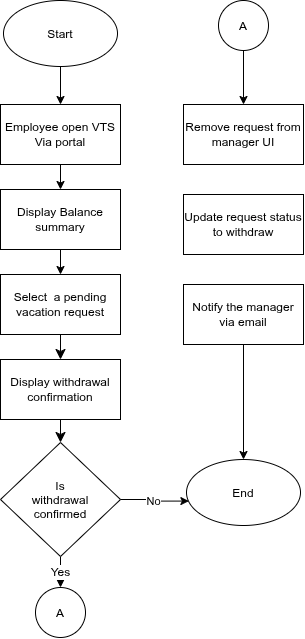
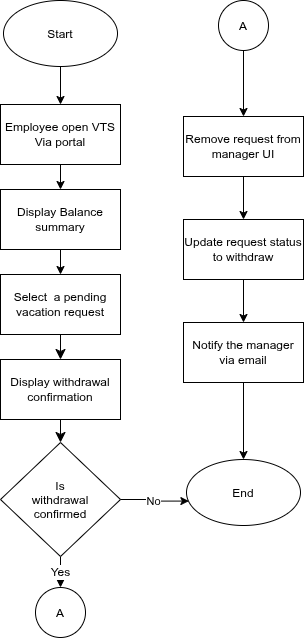
upload edit/withdraw request flow chart

Changed region(s): [[0.5902, 0.1487, 1.0, 0.5947]]

diff --git a/Uses Cases/Manage Time/Alternative Flows/Edit Pending Request/edit_request_flow_chart.html b/Uses Cases/Manage Time/Alternative Flows/Edit Pending Request/edit_request_flow_chart.html
@@ -1,0 +1,12 @@
+<!--[if IE]><meta http-equiv="X-UA-Compatible" content="IE=5,IE=9" ><![endif]-->
+<!DOCTYPE html>
+<html>
+<head>
+<title>edit_request_flow_chart.html</title>
+<meta charset="utf-8"/>
+</head>
+<body>
+<div class="mxgraph" style="max-width:100%;border:1px solid transparent;" data-mxgraph="{&quot;highlight&quot;:&quot;#0000ff&quot;,&quot;nav&quot;:true,&quot;resize&quot;:true,&quot;xml&quot;:&quot;&lt;mxfile host=\&quot;app.diagrams.net\&quot;&gt;&lt;diagram name=\&quot;Page-1\&quot; id=\&quot;mRw7mLXGyJ4UxDQgsZDA\&quot;&gt;&lt;mxGraphModel dx=\&quot;39\&quot; dy=\&quot;505\&quot; grid=\&quot;0\&quot; gridSize=\&quot;10\&quot; guides=\&quot;1\&quot; tooltips=\&quot;1\&quot; connect=\&quot;1\&quot; arrows=\&quot;1\&quot; fold=\&quot;1\&quot; page=\&quot;0\&quot; pageScale=\&quot;1\&quot; pageWidth=\&quot;850\&quot; pageHeight=\&quot;1100\&quot; math=\&quot;0\&quot; shadow=\&quot;0\&quot;&gt;&lt;root&gt;&lt;mxCell id=\&quot;0\&quot;/&gt;&lt;mxCell id=\&quot;1\&quot; parent=\&quot;0\&quot;/&gt;&lt;mxCell id=\&quot;2GZm9S1xcefErr54nvYl-62\&quot; edge=\&quot;1\&quot; parent=\&quot;1\&quot; source=\&quot;2GZm9S1xcefErr54nvYl-63\&quot; style=\&quot;edgeStyle=orthogonalEdgeStyle;rounded=0;orthogonalLoop=1;jettySize=auto;html=1;entryX=0.5;entryY=0;entryDx=0;entryDy=0;\&quot; target=\&quot;2GZm9S1xcefErr54nvYl-65\&quot;&gt;&lt;mxGeometry relative=\&quot;1\&quot; as=\&quot;geometry\&quot;/&gt;&lt;/mxCell&gt;&lt;mxCell id=\&quot;2GZm9S1xcefErr54nvYl-63\&quot; parent=\&quot;1\&quot; style=\&quot;rounded=0;whiteSpace=wrap;html=1;\&quot; value=\&quot;Employee open VTS Via portal\&quot; vertex=\&quot;1\&quot;&gt;&lt;mxGeometry height=\&quot;60\&quot; width=\&quot;120\&quot; x=\&quot;915\&quot; y=\&quot;245\&quot; as=\&quot;geometry\&quot;/&gt;&lt;/mxCell&gt;&lt;mxCell id=\&quot;2GZm9S1xcefErr54nvYl-64\&quot; edge=\&quot;1\&quot; parent=\&quot;1\&quot; source=\&quot;2GZm9S1xcefErr54nvYl-65\&quot; style=\&quot;edgeStyle=orthogonalEdgeStyle;rounded=0;orthogonalLoop=1;jettySize=auto;html=1;entryX=0.5;entryY=0;entryDx=0;entryDy=0;\&quot; target=\&quot;2GZm9S1xcefErr54nvYl-66\&quot;&gt;&lt;mxGeometry relative=\&quot;1\&quot; as=\&quot;geometry\&quot;/&gt;&lt;/mxCell&gt;&lt;mxCell id=\&quot;2GZm9S1xcefErr54nvYl-65\&quot; parent=\&quot;1\&quot; style=\&quot;rounded=0;whiteSpace=wrap;html=1;\&quot; value=\&quot;Display Balance summary\&quot; vertex=\&quot;1\&quot;&gt;&lt;mxGeometry height=\&quot;60\&quot; width=\&quot;120\&quot; x=\&quot;915\&quot; y=\&quot;330\&quot; as=\&quot;geometry\&quot;/&gt;&lt;/mxCell&gt;&lt;mxCell id=\&quot;2GZm9S1xcefErr54nvYl-66\&quot; parent=\&quot;1\&quot; style=\&quot;rounded=0;whiteSpace=wrap;html=1;\&quot; value=\&quot;Select pending request to edit\&quot; vertex=\&quot;1\&quot;&gt;&lt;mxGeometry height=\&quot;60\&quot; width=\&quot;120\&quot; x=\&quot;915\&quot; y=\&quot;415\&quot; as=\&quot;geometry\&quot;/&gt;&lt;/mxCell&gt;&lt;mxCell id=\&quot;2GZm9S1xcefErr54nvYl-67\&quot; edge=\&quot;1\&quot; parent=\&quot;1\&quot; source=\&quot;2GZm9S1xcefErr54nvYl-68\&quot; style=\&quot;edgeStyle=orthogonalEdgeStyle;rounded=0;orthogonalLoop=1;jettySize=auto;html=1;entryX=0.5;entryY=0;entryDx=0;entryDy=0;\&quot; target=\&quot;2GZm9S1xcefErr54nvYl-63\&quot;&gt;&lt;mxGeometry relative=\&quot;1\&quot; as=\&quot;geometry\&quot;/&gt;&lt;/mxCell&gt;&lt;mxCell id=\&quot;2GZm9S1xcefErr54nvYl-68\&quot; parent=\&quot;1\&quot; style=\&quot;ellipse;whiteSpace=wrap;html=1;shapeInside=1;\&quot; value=\&quot;Start\&quot; vertex=\&quot;1\&quot;&gt;&lt;mxGeometry height=\&quot;66\&quot; width=\&quot;114\&quot; x=\&quot;918\&quot; y=\&quot;141\&quot; as=\&quot;geometry\&quot;/&gt;&lt;/mxCell&gt;&lt;mxCell id=\&quot;2GZm9S1xcefErr54nvYl-74\&quot; edge=\&quot;1\&quot; parent=\&quot;1\&quot; source=\&quot;2GZm9S1xcefErr54nvYl-69\&quot; style=\&quot;edgeStyle=orthogonalEdgeStyle;rounded=0;orthogonalLoop=1;jettySize=auto;html=1;exitX=1;exitY=0.5;exitDx=0;exitDy=0;entryX=0.5;entryY=0;entryDx=0;entryDy=0;defaultLabelBackgroundColor=page;\&quot; target=\&quot;2GZm9S1xcefErr54nvYl-72\&quot; value=\&quot;Withdraw\&quot;&gt;&lt;mxGeometry relative=\&quot;1\&quot; x=\&quot;0.2308\&quot; as=\&quot;geometry\&quot;&gt;&lt;mxPoint as=\&quot;offset\&quot;/&gt;&lt;/mxGeometry&gt;&lt;/mxCell&gt;&lt;mxCell id=\&quot;2GZm9S1xcefErr54nvYl-69\&quot; parent=\&quot;1\&quot; style=\&quot;rhombus;whiteSpace=wrap;html=1;shapeInside=1;\&quot; value=\&quot;&amp;amp;nbsp;Action (edit or withdraw)?\&quot; vertex=\&quot;1\&quot;&gt;&lt;mxGeometry height=\&quot;86\&quot; width=\&quot;102\&quot; x=\&quot;924\&quot; y=\&quot;504\&quot; as=\&quot;geometry\&quot;/&gt;&lt;/mxCell&gt;&lt;mxCell id=\&quot;2GZm9S1xcefErr54nvYl-70\&quot; edge=\&quot;1\&quot; parent=\&quot;1\&quot; source=\&quot;2GZm9S1xcefErr54nvYl-66\&quot; style=\&quot;edgeStyle=orthogonalEdgeStyle;rounded=0;orthogonalLoop=1;jettySize=auto;html=1;entryX=0.5;entryY=0;entryDx=0;entryDy=0;defaultLabelBackgroundColor=page;\&quot; target=\&quot;2GZm9S1xcefErr54nvYl-69\&quot;&gt;&lt;mxGeometry relative=\&quot;1\&quot; x=\&quot;0.6078\&quot; as=\&quot;geometry\&quot;/&gt;&lt;/mxCell&gt;&lt;mxCell id=\&quot;2GZm9S1xcefErr54nvYl-71\&quot; parent=\&quot;1\&quot; style=\&quot;ellipse;whiteSpace=wrap;html=1;shapeInside=1;aspect=fixed;\&quot; value=\&quot;A\&quot; vertex=\&quot;1\&quot;&gt;&lt;mxGeometry height=\&quot;50\&quot; width=\&quot;50\&quot; x=\&quot;870\&quot; y=\&quot;620\&quot; as=\&quot;geometry\&quot;/&gt;&lt;/mxCell&gt;&lt;mxCell id=\&quot;2GZm9S1xcefErr54nvYl-72\&quot; parent=\&quot;1\&quot; style=\&quot;ellipse;whiteSpace=wrap;html=1;shapeInside=1;aspect=fixed;\&quot; value=\&quot;B\&quot; vertex=\&quot;1\&quot;&gt;&lt;mxGeometry height=\&quot;50\&quot; width=\&quot;50\&quot; x=\&quot;1032\&quot; y=\&quot;620\&quot; as=\&quot;geometry\&quot;/&gt;&lt;/mxCell&gt;&lt;mxCell id=\&quot;2GZm9S1xcefErr54nvYl-73\&quot; edge=\&quot;1\&quot; parent=\&quot;1\&quot; source=\&quot;2GZm9S1xcefErr54nvYl-69\&quot; style=\&quot;edgeStyle=orthogonalEdgeStyle;rounded=0;orthogonalLoop=1;jettySize=auto;html=1;exitX=0;exitY=0.5;exitDx=0;exitDy=0;entryX=0.422;entryY=-0.13;entryDx=0;entryDy=0;entryPerimeter=0;defaultLabelBackgroundColor=page;\&quot; target=\&quot;2GZm9S1xcefErr54nvYl-71\&quot; value=\&quot;Edit\&quot;&gt;&lt;mxGeometry relative=\&quot;1\&quot; x=\&quot;0.1247\&quot; as=\&quot;geometry\&quot;&gt;&lt;mxPoint as=\&quot;offset\&quot;/&gt;&lt;/mxGeometry&gt;&lt;/mxCell&gt;&lt;mxCell id=\&quot;2GZm9S1xcefErr54nvYl-91\&quot; edge=\&quot;1\&quot; parent=\&quot;1\&quot; source=\&quot;2GZm9S1xcefErr54nvYl-75\&quot; style=\&quot;edgeStyle=orthogonalEdgeStyle;rounded=0;orthogonalLoop=1;jettySize=auto;html=1;entryX=0.5;entryY=0;entryDx=0;entryDy=0;defaultLabelBackgroundColor=page;\&quot; target=\&quot;2GZm9S1xcefErr54nvYl-77\&quot;&gt;&lt;mxGeometry relative=\&quot;1\&quot; as=\&quot;geometry\&quot;/&gt;&lt;/mxCell&gt;&lt;mxCell id=\&quot;2GZm9S1xcefErr54nvYl-75\&quot; parent=\&quot;1\&quot; style=\&quot;ellipse;whiteSpace=wrap;html=1;shapeInside=1;aspect=fixed;\&quot; value=\&quot;A\&quot; vertex=\&quot;1\&quot;&gt;&lt;mxGeometry height=\&quot;50\&quot; width=\&quot;50\&quot; x=\&quot;1195\&quot; y=\&quot;149\&quot; as=\&quot;geometry\&quot;/&gt;&lt;/mxCell&gt;&lt;mxCell id=\&quot;2GZm9S1xcefErr54nvYl-76\&quot; edge=\&quot;1\&quot; parent=\&quot;1\&quot; source=\&quot;2GZm9S1xcefErr54nvYl-77\&quot; style=\&quot;edgeStyle=orthogonalEdgeStyle;rounded=0;orthogonalLoop=1;jettySize=auto;html=1;entryX=0.5;entryY=0;entryDx=0;entryDy=0;\&quot; target=\&quot;2GZm9S1xcefErr54nvYl-79\&quot;&gt;&lt;mxGeometry relative=\&quot;1\&quot; as=\&quot;geometry\&quot;/&gt;&lt;/mxCell&gt;&lt;mxCell id=\&quot;2GZm9S1xcefErr54nvYl-77\&quot; parent=\&quot;1\&quot; style=\&quot;rounded=0;whiteSpace=wrap;html=1;\&quot; value=\&quot;Display request info.\&quot; vertex=\&quot;1\&quot;&gt;&lt;mxGeometry height=\&quot;60\&quot; width=\&quot;120\&quot; x=\&quot;1160\&quot; y=\&quot;240\&quot; as=\&quot;geometry\&quot;/&gt;&lt;/mxCell&gt;&lt;mxCell id=\&quot;2GZm9S1xcefErr54nvYl-78\&quot; edge=\&quot;1\&quot; parent=\&quot;1\&quot; source=\&quot;2GZm9S1xcefErr54nvYl-79\&quot; style=\&quot;edgeStyle=orthogonalEdgeStyle;rounded=0;orthogonalLoop=1;jettySize=auto;html=1;entryX=0.5;entryY=0;entryDx=0;entryDy=0;\&quot; target=\&quot;2GZm9S1xcefErr54nvYl-83\&quot;&gt;&lt;mxGeometry relative=\&quot;1\&quot; as=\&quot;geometry\&quot;/&gt;&lt;/mxCell&gt;&lt;mxCell id=\&quot;2GZm9S1xcefErr54nvYl-79\&quot; parent=\&quot;1\&quot; style=\&quot;rounded=0;whiteSpace=wrap;html=1;\&quot; value=\&quot;change title,comments or dates\&quot; vertex=\&quot;1\&quot;&gt;&lt;mxGeometry height=\&quot;60\&quot; width=\&quot;120\&quot; x=\&quot;1160\&quot; y=\&quot;320\&quot; as=\&quot;geometry\&quot;/&gt;&lt;/mxCell&gt;&lt;mxCell id=\&quot;2GZm9S1xcefErr54nvYl-93\&quot; edge=\&quot;1\&quot; parent=\&quot;1\&quot; source=\&quot;2GZm9S1xcefErr54nvYl-83\&quot; style=\&quot;edgeStyle=orthogonalEdgeStyle;rounded=0;orthogonalLoop=1;jettySize=auto;html=1;exitX=1;exitY=0.5;exitDx=0;exitDy=0;entryX=0;entryY=0.5;entryDx=0;entryDy=0;defaultLabelBackgroundColor=page;\&quot; target=\&quot;2GZm9S1xcefErr54nvYl-85\&quot; value=\&quot;No\&quot;&gt;&lt;mxGeometry relative=\&quot;1\&quot; as=\&quot;geometry\&quot;/&gt;&lt;/mxCell&gt;&lt;mxCell id=\&quot;2GZm9S1xcefErr54nvYl-83\&quot; parent=\&quot;1\&quot; style=\&quot;rhombus;whiteSpace=wrap;html=1;shapeInside=1;\&quot; value=\&quot;Is changes accepted?\&quot; vertex=\&quot;1\&quot;&gt;&lt;mxGeometry height=\&quot;86\&quot; width=\&quot;90\&quot; x=\&quot;1175\&quot; y=\&quot;414\&quot; as=\&quot;geometry\&quot;/&gt;&lt;/mxCell&gt;&lt;mxCell id=\&quot;2GZm9S1xcefErr54nvYl-84\&quot; edge=\&quot;1\&quot; parent=\&quot;1\&quot; source=\&quot;2GZm9S1xcefErr54nvYl-85\&quot; style=\&quot;edgeStyle=orthogonalEdgeStyle;rounded=0;orthogonalLoop=1;jettySize=auto;html=1;entryX=1;entryY=0.5;entryDx=0;entryDy=0;defaultLabelBackgroundColor=page;exitX=0.5;exitY=0;exitDx=0;exitDy=0;\&quot; target=\&quot;2GZm9S1xcefErr54nvYl-77\&quot;&gt;&lt;mxGeometry relative=\&quot;1\&quot; x=\&quot;0.6653\&quot; as=\&quot;geometry\&quot;&gt;&lt;mxPoint x=\&quot;1070\&quot; y=\&quot;427\&quot; as=\&quot;sourcePoint\&quot;/&gt;&lt;/mxGeometry&gt;&lt;/mxCell&gt;&lt;mxCell id=\&quot;2GZm9S1xcefErr54nvYl-85\&quot; parent=\&quot;1\&quot; style=\&quot;rounded=0;whiteSpace=wrap;html=1;\&quot; value=\&quot;Display validation errors\&quot; vertex=\&quot;1\&quot;&gt;&lt;mxGeometry height=\&quot;60\&quot; width=\&quot;114\&quot; x=\&quot;1300\&quot; y=\&quot;427\&quot; as=\&quot;geometry\&quot;/&gt;&lt;/mxCell&gt;&lt;mxCell id=\&quot;2GZm9S1xcefErr54nvYl-86\&quot; edge=\&quot;1\&quot; parent=\&quot;1\&quot; source=\&quot;2GZm9S1xcefErr54nvYl-87\&quot; style=\&quot;edgeStyle=orthogonalEdgeStyle;rounded=0;orthogonalLoop=1;jettySize=auto;html=1;exitX=0.5;exitY=1;exitDx=0;exitDy=0;entryX=0.5;entryY=0;entryDx=0;entryDy=0;\&quot; target=\&quot;2GZm9S1xcefErr54nvYl-90\&quot;&gt;&lt;mxGeometry relative=\&quot;1\&quot; as=\&quot;geometry\&quot;/&gt;&lt;/mxCell&gt;&lt;mxCell id=\&quot;2GZm9S1xcefErr54nvYl-87\&quot; parent=\&quot;1\&quot; style=\&quot;rounded=0;whiteSpace=wrap;html=1;\&quot; value=\&quot;Return to VTS home&amp;amp;nbsp; page\&quot; vertex=\&quot;1\&quot;&gt;&lt;mxGeometry height=\&quot;50\&quot; width=\&quot;120\&quot; x=\&quot;1157\&quot; y=\&quot;604\&quot; as=\&quot;geometry\&quot;/&gt;&lt;/mxCell&gt;&lt;mxCell id=\&quot;2GZm9S1xcefErr54nvYl-88\&quot; edge=\&quot;1\&quot; parent=\&quot;1\&quot; source=\&quot;2GZm9S1xcefErr54nvYl-89\&quot; style=\&quot;edgeStyle=orthogonalEdgeStyle;rounded=0;orthogonalLoop=1;jettySize=auto;html=1;exitX=0.5;exitY=1;exitDx=0;exitDy=0;entryX=0.5;entryY=0;entryDx=0;entryDy=0;\&quot; target=\&quot;2GZm9S1xcefErr54nvYl-87\&quot;&gt;&lt;mxGeometry relative=\&quot;1\&quot; as=\&quot;geometry\&quot;/&gt;&lt;/mxCell&gt;&lt;mxCell id=\&quot;2GZm9S1xcefErr54nvYl-89\&quot; parent=\&quot;1\&quot; style=\&quot;rounded=0;whiteSpace=wrap;html=1;\&quot; value=\&quot;&amp;lt;div&amp;gt;Save the updated info.&amp;lt;/div&amp;gt;\&quot; vertex=\&quot;1\&quot;&gt;&lt;mxGeometry height=\&quot;50\&quot; width=\&quot;120\&quot; x=\&quot;1160\&quot; y=\&quot;522\&quot; as=\&quot;geometry\&quot;/&gt;&lt;/mxCell&gt;&lt;mxCell id=\&quot;2GZm9S1xcefErr54nvYl-90\&quot; parent=\&quot;1\&quot; style=\&quot;ellipse;whiteSpace=wrap;html=1;shapeInside=1;\&quot; value=\&quot;End\&quot; vertex=\&quot;1\&quot;&gt;&lt;mxGeometry height=\&quot;66\&quot; width=\&quot;114\&quot; x=\&quot;1157\&quot; y=\&quot;690\&quot; as=\&quot;geometry\&quot;/&gt;&lt;/mxCell&gt;&lt;mxCell id=\&quot;2GZm9S1xcefErr54nvYl-92\&quot; edge=\&quot;1\&quot; parent=\&quot;1\&quot; source=\&quot;2GZm9S1xcefErr54nvYl-83\&quot; style=\&quot;edgeStyle=orthogonalEdgeStyle;rounded=0;orthogonalLoop=1;jettySize=auto;html=1;exitX=0.5;exitY=1;exitDx=0;exitDy=0;entryX=0.5;entryY=0.2;entryDx=0;entryDy=0;entryPerimeter=0;defaultLabelBackgroundColor=page;\&quot; target=\&quot;2GZm9S1xcefErr54nvYl-89\&quot;&gt;&lt;mxGeometry relative=\&quot;1\&quot; as=\&quot;geometry\&quot;/&gt;&lt;/mxCell&gt;&lt;mxCell id=\&quot;2GZm9S1xcefErr54nvYl-94\&quot; edge=\&quot;1\&quot; parent=\&quot;1\&quot; source=\&quot;2GZm9S1xcefErr54nvYl-95\&quot; style=\&quot;edgeStyle=orthogonalEdgeStyle;rounded=0;orthogonalLoop=1;jettySize=auto;html=1;exitX=0.5;exitY=1;exitDx=0;exitDy=0;entryX=0.5;entryY=0;entryDx=0;entryDy=0;defaultLabelBackgroundColor=page;\&quot; target=\&quot;2GZm9S1xcefErr54nvYl-96\&quot;&gt;&lt;mxGeometry relative=\&quot;1\&quot; as=\&quot;geometry\&quot;/&gt;&lt;/mxCell&gt;&lt;mxCell id=\&quot;2GZm9S1xcefErr54nvYl-95\&quot; parent=\&quot;1\&quot; style=\&quot;rounded=0;whiteSpace=wrap;html=1;\&quot; value=\&quot;Display withdrawal confirmation\&quot; vertex=\&quot;1\&quot;&gt;&lt;mxGeometry height=\&quot;60\&quot; width=\&quot;120\&quot; x=\&quot;1475\&quot; y=\&quot;240\&quot; as=\&quot;geometry\&quot;/&gt;&lt;/mxCell&gt;&lt;mxCell id=\&quot;2GZm9S1xcefErr54nvYl-107\&quot; edge=\&quot;1\&quot; parent=\&quot;1\&quot; source=\&quot;2GZm9S1xcefErr54nvYl-96\&quot; style=\&quot;edgeStyle=orthogonalEdgeStyle;rounded=0;orthogonalLoop=1;jettySize=auto;html=1;exitX=0.5;exitY=1;exitDx=0;exitDy=0;entryX=0.5;entryY=0;entryDx=0;entryDy=0;defaultLabelBackgroundColor=page;\&quot; target=\&quot;2GZm9S1xcefErr54nvYl-103\&quot; value=\&quot;Yes\&quot;&gt;&lt;mxGeometry relative=\&quot;1\&quot; as=\&quot;geometry\&quot;/&gt;&lt;/mxCell&gt;&lt;mxCell id=\&quot;2GZm9S1xcefErr54nvYl-108\&quot; edge=\&quot;1\&quot; parent=\&quot;1\&quot; source=\&quot;2GZm9S1xcefErr54nvYl-96\&quot; style=\&quot;edgeStyle=orthogonalEdgeStyle;rounded=0;orthogonalLoop=1;jettySize=auto;html=1;entryX=1;entryY=0.75;entryDx=0;entryDy=0;defaultLabelBackgroundColor=page;\&quot; target=\&quot;2GZm9S1xcefErr54nvYl-87\&quot;&gt;&lt;mxGeometry relative=\&quot;1\&quot; x=\&quot;0.013\&quot; as=\&quot;geometry\&quot;&gt;&lt;Array as=\&quot;points\&quot;&gt;&lt;mxPoint x=\&quot;1660\&quot; y=\&quot;372\&quot;/&gt;&lt;mxPoint x=\&quot;1660\&quot; y=\&quot;760\&quot;/&gt;&lt;mxPoint x=\&quot;1320\&quot; y=\&quot;760\&quot;/&gt;&lt;mxPoint x=\&quot;1320\&quot; y=\&quot;641.5\&quot;/&gt;&lt;/Array&gt;&lt;/mxGeometry&gt;&lt;/mxCell&gt;&lt;mxCell id=\&quot;2GZm9S1xcefErr54nvYl-110\&quot; connectable=\&quot;0\&quot; parent=\&quot;2GZm9S1xcefErr54nvYl-108\&quot; style=\&quot;edgeLabel;html=1;align=center;verticalAlign=middle;resizable=0;points=[];inheritText=1;defaultLabelBackgroundColor=page;\&quot; value=\&quot;No\&quot; vertex=\&quot;1\&quot;&gt;&lt;mxGeometry relative=\&quot;1\&quot; x=\&quot;-0.9128\&quot; y=\&quot;1\&quot; as=\&quot;geometry\&quot;&gt;&lt;mxPoint as=\&quot;offset\&quot;/&gt;&lt;/mxGeometry&gt;&lt;/mxCell&gt;&lt;mxCell id=\&quot;2GZm9S1xcefErr54nvYl-96\&quot; parent=\&quot;1\&quot; style=\&quot;rhombus;whiteSpace=wrap;html=1;shapeInside=1;\&quot; value=\&quot;If employee confirmed?\&quot; vertex=\&quot;1\&quot;&gt;&lt;mxGeometry height=\&quot;104\&quot; width=\&quot;102\&quot; x=\&quot;1484\&quot; y=\&quot;320\&quot; as=\&quot;geometry\&quot;/&gt;&lt;/mxCell&gt;&lt;mxCell id=\&quot;2GZm9S1xcefErr54nvYl-99\&quot; edge=\&quot;1\&quot; parent=\&quot;1\&quot; source=\&quot;2GZm9S1xcefErr54nvYl-98\&quot; style=\&quot;edgeStyle=orthogonalEdgeStyle;rounded=0;orthogonalLoop=1;jettySize=auto;html=1;entryX=0.5;entryY=0;entryDx=0;entryDy=0;defaultLabelBackgroundColor=page;\&quot; target=\&quot;2GZm9S1xcefErr54nvYl-95\&quot;&gt;&lt;mxGeometry relative=\&quot;1\&quot; as=\&quot;geometry\&quot;/&gt;&lt;/mxCell&gt;&lt;mxCell id=\&quot;2GZm9S1xcefErr54nvYl-98\&quot; parent=\&quot;1\&quot; style=\&quot;ellipse;whiteSpace=wrap;html=1;shapeInside=1;aspect=fixed;\&quot; value=\&quot;B\&quot; vertex=\&quot;1\&quot;&gt;&lt;mxGeometry height=\&quot;50\&quot; width=\&quot;50\&quot; x=\&quot;1510\&quot; y=\&quot;149\&quot; as=\&quot;geometry\&quot;/&gt;&lt;/mxCell&gt;&lt;mxCell id=\&quot;2GZm9S1xcefErr54nvYl-102\&quot; edge=\&quot;1\&quot; parent=\&quot;1\&quot; source=\&quot;2GZm9S1xcefErr54nvYl-103\&quot; style=\&quot;edgeStyle=orthogonalEdgeStyle;rounded=0;orthogonalLoop=1;jettySize=auto;html=1;entryX=0.5;entryY=0;entryDx=0;entryDy=0;defaultLabelBackgroundColor=page;\&quot; target=\&quot;2GZm9S1xcefErr54nvYl-105\&quot;&gt;&lt;mxGeometry relative=\&quot;1\&quot; as=\&quot;geometry\&quot;/&gt;&lt;/mxCell&gt;&lt;mxCell id=\&quot;2GZm9S1xcefErr54nvYl-103\&quot; parent=\&quot;1\&quot; style=\&quot;rounded=0;whiteSpace=wrap;html=1;\&quot; value=\&quot;Remove request from manager UI\&quot; vertex=\&quot;1\&quot;&gt;&lt;mxGeometry height=\&quot;60\&quot; width=\&quot;120\&quot; x=\&quot;1475\&quot; y=\&quot;460\&quot; as=\&quot;geometry\&quot;/&gt;&lt;/mxCell&gt;&lt;mxCell id=\&quot;2GZm9S1xcefErr54nvYl-104\&quot; edge=\&quot;1\&quot; parent=\&quot;1\&quot; source=\&quot;2GZm9S1xcefErr54nvYl-105\&quot; style=\&quot;edgeStyle=orthogonalEdgeStyle;rounded=0;orthogonalLoop=1;jettySize=auto;html=1;exitX=0.5;exitY=1;exitDx=0;exitDy=0;entryX=0.5;entryY=0;entryDx=0;entryDy=0;defaultLabelBackgroundColor=page;\&quot; target=\&quot;2GZm9S1xcefErr54nvYl-106\&quot;&gt;&lt;mxGeometry relative=\&quot;1\&quot; as=\&quot;geometry\&quot;/&gt;&lt;/mxCell&gt;&lt;mxCell id=\&quot;2GZm9S1xcefErr54nvYl-105\&quot; parent=\&quot;1\&quot; style=\&quot;rounded=0;whiteSpace=wrap;html=1;\&quot; value=\&quot;Update request status to withdraw\&quot; vertex=\&quot;1\&quot;&gt;&lt;mxGeometry height=\&quot;60\&quot; width=\&quot;120\&quot; x=\&quot;1475\&quot; y=\&quot;563\&quot; as=\&quot;geometry\&quot;/&gt;&lt;/mxCell&gt;&lt;mxCell id=\&quot;2GZm9S1xcefErr54nvYl-109\&quot; edge=\&quot;1\&quot; parent=\&quot;1\&quot; source=\&quot;2GZm9S1xcefErr54nvYl-106\&quot; style=\&quot;edgeStyle=orthogonalEdgeStyle;rounded=0;orthogonalLoop=1;jettySize=auto;html=1;entryX=1;entryY=0.5;entryDx=0;entryDy=0;defaultLabelBackgroundColor=page;\&quot; target=\&quot;2GZm9S1xcefErr54nvYl-87\&quot;&gt;&lt;mxGeometry relative=\&quot;1\&quot; x=\&quot;0.0491\&quot; as=\&quot;geometry\&quot;&gt;&lt;Array as=\&quot;points\&quot;&gt;&lt;mxPoint x=\&quot;1340\&quot; y=\&quot;696\&quot;/&gt;&lt;mxPoint x=\&quot;1340\&quot; y=\&quot;629\&quot;/&gt;&lt;/Array&gt;&lt;/mxGeometry&gt;&lt;/mxCell&gt;&lt;mxCell id=\&quot;2GZm9S1xcefErr54nvYl-106\&quot; parent=\&quot;1\&quot; style=\&quot;rounded=0;whiteSpace=wrap;html=1;\&quot; value=\&quot;Notify the manager via email\&quot; vertex=\&quot;1\&quot;&gt;&lt;mxGeometry height=\&quot;60\&quot; width=\&quot;120\&quot; x=\&quot;1475\&quot; y=\&quot;666\&quot; as=\&quot;geometry\&quot;/&gt;&lt;/mxCell&gt;&lt;/root&gt;&lt;/mxGraphModel&gt;&lt;/diagram&gt;&lt;/mxfile&gt;&quot;,&quot;toolbar&quot;:&quot;pages zoom layers lightbox&quot;,&quot;page&quot;:0}"></div>
+<script type="text/javascript" src="https://app.diagrams.net/js/viewer-static.min.js"></script>
+</body>
+</html>

diff --git a/Uses Cases/Manage Time/Alternative Flows/Withdraw Request/withdraw_request_flow_chart.html b/Uses Cases/Manage Time/Alternative Flows/Withdraw Request/withdraw_request_flow_chart.html
@@ -2,11 +2,11 @@
 <!DOCTYPE html>
 <html>
 <head>
-<title>Withdraw_Request_Flow_Chart.drawio.html</title>
+<title>withdraw_request_flow_chart.html</title>
 <meta charset="utf-8"/>
 </head>
 <body>
-<div class="mxgraph" style="max-width:100%;border:1px solid transparent;" data-mxgraph="{&quot;highlight&quot;:&quot;#0000ff&quot;,&quot;nav&quot;:true,&quot;resize&quot;:true,&quot;xml&quot;:&quot;&lt;mxfile host=\&quot;app.diagrams.net\&quot;&gt;&lt;diagram name=\&quot;Page-1\&quot; id=\&quot;GV_UwUKKsRjvnmfFAUJ2\&quot;&gt;&lt;mxGraphModel dx=\&quot;1141\&quot; dy=\&quot;657\&quot; grid=\&quot;0\&quot; gridSize=\&quot;10\&quot; guides=\&quot;1\&quot; tooltips=\&quot;1\&quot; connect=\&quot;1\&quot; arrows=\&quot;1\&quot; fold=\&quot;1\&quot; page=\&quot;1\&quot; pageScale=\&quot;1\&quot; pageWidth=\&quot;850\&quot; pageHeight=\&quot;1100\&quot; math=\&quot;0\&quot; shadow=\&quot;0\&quot;&gt;&lt;root&gt;&lt;mxCell id=\&quot;0\&quot;/&gt;&lt;mxCell id=\&quot;1\&quot; parent=\&quot;0\&quot;/&gt;&lt;mxCell id=\&quot;i88CsCOI2Hp2mbCcAl_R-2\&quot; edge=\&quot;1\&quot; parent=\&quot;1\&quot; source=\&quot;i88CsCOI2Hp2mbCcAl_R-3\&quot; style=\&quot;edgeStyle=orthogonalEdgeStyle;rounded=0;orthogonalLoop=1;jettySize=auto;html=1;entryX=0.5;entryY=0;entryDx=0;entryDy=0;\&quot; target=\&quot;i88CsCOI2Hp2mbCcAl_R-5\&quot;&gt;&lt;mxGeometry relative=\&quot;1\&quot; as=\&quot;geometry\&quot;/&gt;&lt;/mxCell&gt;&lt;mxCell id=\&quot;i88CsCOI2Hp2mbCcAl_R-3\&quot; parent=\&quot;1\&quot; style=\&quot;rounded=0;whiteSpace=wrap;html=1;\&quot; value=\&quot;Employee open VTS Via portal\&quot; vertex=\&quot;1\&quot;&gt;&lt;mxGeometry height=\&quot;60\&quot; width=\&quot;120\&quot; x=\&quot;128\&quot; y=\&quot;155\&quot; as=\&quot;geometry\&quot;/&gt;&lt;/mxCell&gt;&lt;mxCell id=\&quot;i88CsCOI2Hp2mbCcAl_R-4\&quot; edge=\&quot;1\&quot; parent=\&quot;1\&quot; source=\&quot;i88CsCOI2Hp2mbCcAl_R-5\&quot; style=\&quot;edgeStyle=orthogonalEdgeStyle;rounded=0;orthogonalLoop=1;jettySize=auto;html=1;entryX=0.5;entryY=0;entryDx=0;entryDy=0;\&quot; target=\&quot;i88CsCOI2Hp2mbCcAl_R-7\&quot;&gt;&lt;mxGeometry relative=\&quot;1\&quot; as=\&quot;geometry\&quot;/&gt;&lt;/mxCell&gt;&lt;mxCell id=\&quot;i88CsCOI2Hp2mbCcAl_R-5\&quot; parent=\&quot;1\&quot; style=\&quot;rounded=0;whiteSpace=wrap;html=1;\&quot; value=\&quot;Display Balance summary\&quot; vertex=\&quot;1\&quot;&gt;&lt;mxGeometry height=\&quot;60\&quot; width=\&quot;120\&quot; x=\&quot;128\&quot; y=\&quot;240\&quot; as=\&quot;geometry\&quot;/&gt;&lt;/mxCell&gt;&lt;mxCell id=\&quot;i88CsCOI2Hp2mbCcAl_R-6\&quot; edge=\&quot;1\&quot; parent=\&quot;1\&quot; source=\&quot;i88CsCOI2Hp2mbCcAl_R-7\&quot; style=\&quot;edgeStyle=none;curved=1;rounded=0;curveGeometry=1;orthogonalLoop=1;jettySize=auto;html=1;exitX=0.5;exitY=1;exitDx=0;exitDy=0;entryX=0.5;entryY=0;entryDx=0;entryDy=0;fontSize=12;startSize=8;endSize=8;\&quot; target=\&quot;i88CsCOI2Hp2mbCcAl_R-11\&quot;&gt;&lt;mxGeometry relative=\&quot;1\&quot; as=\&quot;geometry\&quot;/&gt;&lt;/mxCell&gt;&lt;mxCell id=\&quot;i88CsCOI2Hp2mbCcAl_R-7\&quot; parent=\&quot;1\&quot; style=\&quot;rounded=0;whiteSpace=wrap;html=1;\&quot; value=\&quot;Select&amp;amp;nbsp; a pending vacation request\&quot; vertex=\&quot;1\&quot;&gt;&lt;mxGeometry height=\&quot;60\&quot; width=\&quot;120\&quot; x=\&quot;128\&quot; y=\&quot;325\&quot; as=\&quot;geometry\&quot;/&gt;&lt;/mxCell&gt;&lt;mxCell id=\&quot;i88CsCOI2Hp2mbCcAl_R-8\&quot; edge=\&quot;1\&quot; parent=\&quot;1\&quot; source=\&quot;i88CsCOI2Hp2mbCcAl_R-9\&quot; style=\&quot;edgeStyle=orthogonalEdgeStyle;rounded=0;orthogonalLoop=1;jettySize=auto;html=1;entryX=0.5;entryY=0;entryDx=0;entryDy=0;\&quot; target=\&quot;i88CsCOI2Hp2mbCcAl_R-3\&quot;&gt;&lt;mxGeometry relative=\&quot;1\&quot; as=\&quot;geometry\&quot;/&gt;&lt;/mxCell&gt;&lt;mxCell id=\&quot;i88CsCOI2Hp2mbCcAl_R-9\&quot; parent=\&quot;1\&quot; style=\&quot;ellipse;whiteSpace=wrap;html=1;shapeInside=1;\&quot; value=\&quot;Start\&quot; vertex=\&quot;1\&quot;&gt;&lt;mxGeometry height=\&quot;66\&quot; width=\&quot;114\&quot; x=\&quot;131\&quot; y=\&quot;51\&quot; as=\&quot;geometry\&quot;/&gt;&lt;/mxCell&gt;&lt;mxCell id=\&quot;i88CsCOI2Hp2mbCcAl_R-10\&quot; edge=\&quot;1\&quot; parent=\&quot;1\&quot; source=\&quot;i88CsCOI2Hp2mbCcAl_R-11\&quot; style=\&quot;edgeStyle=none;curved=1;rounded=0;curveGeometry=1;orthogonalLoop=1;jettySize=auto;html=1;exitX=0.5;exitY=1;exitDx=0;exitDy=0;entryX=0.5;entryY=0;entryDx=0;entryDy=0;fontSize=12;startSize=8;endSize=8;\&quot; target=\&quot;i88CsCOI2Hp2mbCcAl_R-13\&quot;&gt;&lt;mxGeometry relative=\&quot;1\&quot; as=\&quot;geometry\&quot;/&gt;&lt;/mxCell&gt;&lt;mxCell id=\&quot;i88CsCOI2Hp2mbCcAl_R-11\&quot; parent=\&quot;1\&quot; style=\&quot;rounded=0;whiteSpace=wrap;html=1;\&quot; value=\&quot;Display withdrawal confirmation\&quot; vertex=\&quot;1\&quot;&gt;&lt;mxGeometry height=\&quot;60\&quot; width=\&quot;120\&quot; x=\&quot;128\&quot; y=\&quot;410\&quot; as=\&quot;geometry\&quot;/&gt;&lt;/mxCell&gt;&lt;mxCell id=\&quot;i88CsCOI2Hp2mbCcAl_R-12\&quot; edge=\&quot;1\&quot; parent=\&quot;1\&quot; source=\&quot;i88CsCOI2Hp2mbCcAl_R-13\&quot; style=\&quot;edgeStyle=none;curved=1;rounded=0;curveGeometry=1;orthogonalLoop=1;jettySize=auto;html=1;exitX=0.5;exitY=1;exitDx=0;exitDy=0;entryX=0.5;entryY=0;entryDx=0;entryDy=0;fontSize=12;startSize=8;endSize=8;\&quot; target=\&quot;i88CsCOI2Hp2mbCcAl_R-14\&quot; value=\&quot;Yes\&quot;&gt;&lt;mxGeometry relative=\&quot;1\&quot; as=\&quot;geometry\&quot;/&gt;&lt;/mxCell&gt;&lt;mxCell id=\&quot;i88CsCOI2Hp2mbCcAl_R-13\&quot; parent=\&quot;1\&quot; style=\&quot;rhombus;whiteSpace=wrap;html=1;shapeInside=1;\&quot; value=\&quot;Is withdrawal confirmed\&quot; vertex=\&quot;1\&quot;&gt;&lt;mxGeometry height=\&quot;114\&quot; width=\&quot;120\&quot; x=\&quot;128\&quot; y=\&quot;493\&quot; as=\&quot;geometry\&quot;/&gt;&lt;/mxCell&gt;&lt;mxCell id=\&quot;i88CsCOI2Hp2mbCcAl_R-14\&quot; parent=\&quot;1\&quot; style=\&quot;ellipse;whiteSpace=wrap;html=1;shapeInside=1;aspect=fixed;\&quot; value=\&quot;A\&quot; vertex=\&quot;1\&quot;&gt;&lt;mxGeometry height=\&quot;50\&quot; width=\&quot;50\&quot; x=\&quot;163\&quot; y=\&quot;638\&quot; as=\&quot;geometry\&quot;/&gt;&lt;/mxCell&gt;&lt;mxCell id=\&quot;i88CsCOI2Hp2mbCcAl_R-18\&quot; edge=\&quot;1\&quot; parent=\&quot;1\&quot; source=\&quot;i88CsCOI2Hp2mbCcAl_R-15\&quot; style=\&quot;edgeStyle=orthogonalEdgeStyle;rounded=0;orthogonalLoop=1;jettySize=auto;html=1;entryX=0.5;entryY=0;entryDx=0;entryDy=0;\&quot; target=\&quot;i88CsCOI2Hp2mbCcAl_R-16\&quot;&gt;&lt;mxGeometry relative=\&quot;1\&quot; as=\&quot;geometry\&quot;/&gt;&lt;/mxCell&gt;&lt;mxCell id=\&quot;i88CsCOI2Hp2mbCcAl_R-15\&quot; parent=\&quot;1\&quot; style=\&quot;ellipse;whiteSpace=wrap;html=1;shapeInside=1;aspect=fixed;\&quot; value=\&quot;A\&quot; vertex=\&quot;1\&quot;&gt;&lt;mxGeometry height=\&quot;50\&quot; width=\&quot;50\&quot; x=\&quot;346\&quot; y=\&quot;51\&quot; as=\&quot;geometry\&quot;/&gt;&lt;/mxCell&gt;&lt;mxCell id=\&quot;i88CsCOI2Hp2mbCcAl_R-16\&quot; parent=\&quot;1\&quot; style=\&quot;rounded=0;whiteSpace=wrap;html=1;\&quot; value=\&quot;Remove request from manager UI\&quot; vertex=\&quot;1\&quot;&gt;&lt;mxGeometry height=\&quot;60\&quot; width=\&quot;120\&quot; x=\&quot;311\&quot; y=\&quot;155\&quot; as=\&quot;geometry\&quot;/&gt;&lt;/mxCell&gt;&lt;mxCell id=\&quot;i88CsCOI2Hp2mbCcAl_R-19\&quot; parent=\&quot;1\&quot; style=\&quot;rounded=0;whiteSpace=wrap;html=1;\&quot; value=\&quot;Update request status to withdraw\&quot; vertex=\&quot;1\&quot;&gt;&lt;mxGeometry height=\&quot;60\&quot; width=\&quot;120\&quot; x=\&quot;311\&quot; y=\&quot;245\&quot; as=\&quot;geometry\&quot;/&gt;&lt;/mxCell&gt;&lt;mxCell id=\&quot;i88CsCOI2Hp2mbCcAl_R-22\&quot; edge=\&quot;1\&quot; parent=\&quot;1\&quot; source=\&quot;i88CsCOI2Hp2mbCcAl_R-20\&quot; style=\&quot;edgeStyle=orthogonalEdgeStyle;rounded=0;orthogonalLoop=1;jettySize=auto;html=1;\&quot; target=\&quot;i88CsCOI2Hp2mbCcAl_R-21\&quot;&gt;&lt;mxGeometry relative=\&quot;1\&quot; as=\&quot;geometry\&quot;/&gt;&lt;/mxCell&gt;&lt;mxCell id=\&quot;i88CsCOI2Hp2mbCcAl_R-20\&quot; parent=\&quot;1\&quot; style=\&quot;rounded=0;whiteSpace=wrap;html=1;\&quot; value=\&quot;Notify the manager via email\&quot; vertex=\&quot;1\&quot;&gt;&lt;mxGeometry height=\&quot;60\&quot; width=\&quot;120\&quot; x=\&quot;311\&quot; y=\&quot;335\&quot; as=\&quot;geometry\&quot;/&gt;&lt;/mxCell&gt;&lt;mxCell id=\&quot;i88CsCOI2Hp2mbCcAl_R-21\&quot; parent=\&quot;1\&quot; style=\&quot;ellipse;whiteSpace=wrap;html=1;shapeInside=1;\&quot; value=\&quot;End\&quot; vertex=\&quot;1\&quot;&gt;&lt;mxGeometry height=\&quot;66\&quot; width=\&quot;114\&quot; x=\&quot;314\&quot; y=\&quot;510\&quot; as=\&quot;geometry\&quot;/&gt;&lt;/mxCell&gt;&lt;mxCell id=\&quot;i88CsCOI2Hp2mbCcAl_R-23\&quot; edge=\&quot;1\&quot; parent=\&quot;1\&quot; source=\&quot;i88CsCOI2Hp2mbCcAl_R-13\&quot; style=\&quot;edgeStyle=orthogonalEdgeStyle;rounded=0;orthogonalLoop=1;jettySize=auto;html=1;exitX=1;exitY=0.5;exitDx=0;exitDy=0;entryX=0.021;entryY=0.63;entryDx=0;entryDy=0;entryPerimeter=0;\&quot; target=\&quot;i88CsCOI2Hp2mbCcAl_R-21\&quot; value=\&quot;No\&quot;&gt;&lt;mxGeometry relative=\&quot;1\&quot; as=\&quot;geometry\&quot;/&gt;&lt;/mxCell&gt;&lt;/root&gt;&lt;/mxGraphModel&gt;&lt;/diagram&gt;&lt;/mxfile&gt;&quot;,&quot;toolbar&quot;:&quot;pages zoom layers lightbox&quot;,&quot;page&quot;:0}"></div>
+<div class="mxgraph" style="max-width:100%;border:1px solid transparent;" data-mxgraph="{&quot;highlight&quot;:&quot;#0000ff&quot;,&quot;nav&quot;:true,&quot;resize&quot;:true,&quot;xml&quot;:&quot;&lt;mxfile host=\&quot;app.diagrams.net\&quot;&gt;&lt;diagram name=\&quot;Page-1\&quot; id=\&quot;GV_UwUKKsRjvnmfFAUJ2\&quot;&gt;&lt;mxGraphModel dx=\&quot;1095\&quot; dy=\&quot;673\&quot; grid=\&quot;0\&quot; gridSize=\&quot;10\&quot; guides=\&quot;1\&quot; tooltips=\&quot;1\&quot; connect=\&quot;1\&quot; arrows=\&quot;1\&quot; fold=\&quot;1\&quot; page=\&quot;1\&quot; pageScale=\&quot;1\&quot; pageWidth=\&quot;850\&quot; pageHeight=\&quot;1100\&quot; math=\&quot;0\&quot; shadow=\&quot;0\&quot;&gt;&lt;root&gt;&lt;mxCell id=\&quot;0\&quot;/&gt;&lt;mxCell id=\&quot;1\&quot; parent=\&quot;0\&quot;/&gt;&lt;mxCell id=\&quot;i88CsCOI2Hp2mbCcAl_R-2\&quot; edge=\&quot;1\&quot; parent=\&quot;1\&quot; source=\&quot;i88CsCOI2Hp2mbCcAl_R-3\&quot; style=\&quot;edgeStyle=orthogonalEdgeStyle;rounded=0;orthogonalLoop=1;jettySize=auto;html=1;entryX=0.5;entryY=0;entryDx=0;entryDy=0;\&quot; target=\&quot;i88CsCOI2Hp2mbCcAl_R-5\&quot;&gt;&lt;mxGeometry relative=\&quot;1\&quot; as=\&quot;geometry\&quot;/&gt;&lt;/mxCell&gt;&lt;mxCell id=\&quot;i88CsCOI2Hp2mbCcAl_R-3\&quot; parent=\&quot;1\&quot; style=\&quot;rounded=0;whiteSpace=wrap;html=1;\&quot; value=\&quot;Employee open VTS Via portal\&quot; vertex=\&quot;1\&quot;&gt;&lt;mxGeometry height=\&quot;60\&quot; width=\&quot;120\&quot; x=\&quot;128\&quot; y=\&quot;155\&quot; as=\&quot;geometry\&quot;/&gt;&lt;/mxCell&gt;&lt;mxCell id=\&quot;i88CsCOI2Hp2mbCcAl_R-4\&quot; edge=\&quot;1\&quot; parent=\&quot;1\&quot; source=\&quot;i88CsCOI2Hp2mbCcAl_R-5\&quot; style=\&quot;edgeStyle=orthogonalEdgeStyle;rounded=0;orthogonalLoop=1;jettySize=auto;html=1;entryX=0.5;entryY=0;entryDx=0;entryDy=0;\&quot; target=\&quot;i88CsCOI2Hp2mbCcAl_R-7\&quot;&gt;&lt;mxGeometry relative=\&quot;1\&quot; as=\&quot;geometry\&quot;/&gt;&lt;/mxCell&gt;&lt;mxCell id=\&quot;i88CsCOI2Hp2mbCcAl_R-5\&quot; parent=\&quot;1\&quot; style=\&quot;rounded=0;whiteSpace=wrap;html=1;\&quot; value=\&quot;Display Balance summary\&quot; vertex=\&quot;1\&quot;&gt;&lt;mxGeometry height=\&quot;60\&quot; width=\&quot;120\&quot; x=\&quot;128\&quot; y=\&quot;240\&quot; as=\&quot;geometry\&quot;/&gt;&lt;/mxCell&gt;&lt;mxCell id=\&quot;i88CsCOI2Hp2mbCcAl_R-6\&quot; edge=\&quot;1\&quot; parent=\&quot;1\&quot; source=\&quot;i88CsCOI2Hp2mbCcAl_R-7\&quot; style=\&quot;edgeStyle=none;curved=1;rounded=0;curveGeometry=1;orthogonalLoop=1;jettySize=auto;html=1;exitX=0.5;exitY=1;exitDx=0;exitDy=0;entryX=0.5;entryY=0;entryDx=0;entryDy=0;fontSize=12;startSize=8;endSize=8;\&quot; target=\&quot;i88CsCOI2Hp2mbCcAl_R-11\&quot;&gt;&lt;mxGeometry relative=\&quot;1\&quot; as=\&quot;geometry\&quot;/&gt;&lt;/mxCell&gt;&lt;mxCell id=\&quot;i88CsCOI2Hp2mbCcAl_R-7\&quot; parent=\&quot;1\&quot; style=\&quot;rounded=0;whiteSpace=wrap;html=1;\&quot; value=\&quot;Select&amp;amp;nbsp; a pending vacation request\&quot; vertex=\&quot;1\&quot;&gt;&lt;mxGeometry height=\&quot;60\&quot; width=\&quot;120\&quot; x=\&quot;128\&quot; y=\&quot;325\&quot; as=\&quot;geometry\&quot;/&gt;&lt;/mxCell&gt;&lt;mxCell id=\&quot;i88CsCOI2Hp2mbCcAl_R-8\&quot; edge=\&quot;1\&quot; parent=\&quot;1\&quot; source=\&quot;i88CsCOI2Hp2mbCcAl_R-9\&quot; style=\&quot;edgeStyle=orthogonalEdgeStyle;rounded=0;orthogonalLoop=1;jettySize=auto;html=1;entryX=0.5;entryY=0;entryDx=0;entryDy=0;\&quot; target=\&quot;i88CsCOI2Hp2mbCcAl_R-3\&quot;&gt;&lt;mxGeometry relative=\&quot;1\&quot; as=\&quot;geometry\&quot;/&gt;&lt;/mxCell&gt;&lt;mxCell id=\&quot;i88CsCOI2Hp2mbCcAl_R-9\&quot; parent=\&quot;1\&quot; style=\&quot;ellipse;whiteSpace=wrap;html=1;shapeInside=1;\&quot; value=\&quot;Start\&quot; vertex=\&quot;1\&quot;&gt;&lt;mxGeometry height=\&quot;66\&quot; width=\&quot;114\&quot; x=\&quot;131\&quot; y=\&quot;51\&quot; as=\&quot;geometry\&quot;/&gt;&lt;/mxCell&gt;&lt;mxCell id=\&quot;i88CsCOI2Hp2mbCcAl_R-10\&quot; edge=\&quot;1\&quot; parent=\&quot;1\&quot; source=\&quot;i88CsCOI2Hp2mbCcAl_R-11\&quot; style=\&quot;edgeStyle=none;curved=1;rounded=0;curveGeometry=1;orthogonalLoop=1;jettySize=auto;html=1;exitX=0.5;exitY=1;exitDx=0;exitDy=0;entryX=0.5;entryY=0;entryDx=0;entryDy=0;fontSize=12;startSize=8;endSize=8;\&quot; target=\&quot;i88CsCOI2Hp2mbCcAl_R-13\&quot;&gt;&lt;mxGeometry relative=\&quot;1\&quot; as=\&quot;geometry\&quot;/&gt;&lt;/mxCell&gt;&lt;mxCell id=\&quot;i88CsCOI2Hp2mbCcAl_R-11\&quot; parent=\&quot;1\&quot; style=\&quot;rounded=0;whiteSpace=wrap;html=1;\&quot; value=\&quot;Display withdrawal confirmation\&quot; vertex=\&quot;1\&quot;&gt;&lt;mxGeometry height=\&quot;60\&quot; width=\&quot;120\&quot; x=\&quot;128\&quot; y=\&quot;410\&quot; as=\&quot;geometry\&quot;/&gt;&lt;/mxCell&gt;&lt;mxCell id=\&quot;i88CsCOI2Hp2mbCcAl_R-12\&quot; edge=\&quot;1\&quot; parent=\&quot;1\&quot; source=\&quot;i88CsCOI2Hp2mbCcAl_R-13\&quot; style=\&quot;edgeStyle=none;curved=1;rounded=0;curveGeometry=1;orthogonalLoop=1;jettySize=auto;html=1;exitX=0.5;exitY=1;exitDx=0;exitDy=0;entryX=0.5;entryY=0;entryDx=0;entryDy=0;fontSize=12;startSize=8;endSize=8;\&quot; target=\&quot;i88CsCOI2Hp2mbCcAl_R-14\&quot; value=\&quot;Yes\&quot;&gt;&lt;mxGeometry relative=\&quot;1\&quot; as=\&quot;geometry\&quot;/&gt;&lt;/mxCell&gt;&lt;mxCell id=\&quot;i88CsCOI2Hp2mbCcAl_R-13\&quot; parent=\&quot;1\&quot; style=\&quot;rhombus;whiteSpace=wrap;html=1;shapeInside=1;\&quot; value=\&quot;Is withdrawal confirmed\&quot; vertex=\&quot;1\&quot;&gt;&lt;mxGeometry height=\&quot;114\&quot; width=\&quot;120\&quot; x=\&quot;128\&quot; y=\&quot;493\&quot; as=\&quot;geometry\&quot;/&gt;&lt;/mxCell&gt;&lt;mxCell id=\&quot;i88CsCOI2Hp2mbCcAl_R-14\&quot; parent=\&quot;1\&quot; style=\&quot;ellipse;whiteSpace=wrap;html=1;shapeInside=1;aspect=fixed;\&quot; value=\&quot;A\&quot; vertex=\&quot;1\&quot;&gt;&lt;mxGeometry height=\&quot;50\&quot; width=\&quot;50\&quot; x=\&quot;163\&quot; y=\&quot;638\&quot; as=\&quot;geometry\&quot;/&gt;&lt;/mxCell&gt;&lt;mxCell id=\&quot;i88CsCOI2Hp2mbCcAl_R-18\&quot; edge=\&quot;1\&quot; parent=\&quot;1\&quot; source=\&quot;i88CsCOI2Hp2mbCcAl_R-15\&quot; style=\&quot;edgeStyle=orthogonalEdgeStyle;rounded=0;orthogonalLoop=1;jettySize=auto;html=1;entryX=0.5;entryY=0;entryDx=0;entryDy=0;\&quot; target=\&quot;i88CsCOI2Hp2mbCcAl_R-16\&quot;&gt;&lt;mxGeometry relative=\&quot;1\&quot; as=\&quot;geometry\&quot;/&gt;&lt;/mxCell&gt;&lt;mxCell id=\&quot;i88CsCOI2Hp2mbCcAl_R-15\&quot; parent=\&quot;1\&quot; style=\&quot;ellipse;whiteSpace=wrap;html=1;shapeInside=1;aspect=fixed;\&quot; value=\&quot;A\&quot; vertex=\&quot;1\&quot;&gt;&lt;mxGeometry height=\&quot;50\&quot; width=\&quot;50\&quot; x=\&quot;346\&quot; y=\&quot;51\&quot; as=\&quot;geometry\&quot;/&gt;&lt;/mxCell&gt;&lt;mxCell id=\&quot;6tT4_88Pps6aC-u5Yhd4-1\&quot; edge=\&quot;1\&quot; parent=\&quot;1\&quot; source=\&quot;i88CsCOI2Hp2mbCcAl_R-16\&quot; style=\&quot;edgeStyle=orthogonalEdgeStyle;rounded=0;orthogonalLoop=1;jettySize=auto;html=1;entryX=0.5;entryY=0;entryDx=0;entryDy=0;defaultLabelBackgroundColor=page;\&quot; target=\&quot;i88CsCOI2Hp2mbCcAl_R-19\&quot;&gt;&lt;mxGeometry relative=\&quot;1\&quot; as=\&quot;geometry\&quot;/&gt;&lt;/mxCell&gt;&lt;mxCell id=\&quot;i88CsCOI2Hp2mbCcAl_R-16\&quot; parent=\&quot;1\&quot; style=\&quot;rounded=0;whiteSpace=wrap;html=1;\&quot; value=\&quot;Remove request from manager UI\&quot; vertex=\&quot;1\&quot;&gt;&lt;mxGeometry height=\&quot;60\&quot; width=\&quot;120\&quot; x=\&quot;311\&quot; y=\&quot;167\&quot; as=\&quot;geometry\&quot;/&gt;&lt;/mxCell&gt;&lt;mxCell id=\&quot;6tT4_88Pps6aC-u5Yhd4-2\&quot; edge=\&quot;1\&quot; parent=\&quot;1\&quot; source=\&quot;i88CsCOI2Hp2mbCcAl_R-19\&quot; style=\&quot;edgeStyle=orthogonalEdgeStyle;rounded=0;orthogonalLoop=1;jettySize=auto;html=1;exitX=0.5;exitY=1;exitDx=0;exitDy=0;entryX=0.5;entryY=0;entryDx=0;entryDy=0;defaultLabelBackgroundColor=page;\&quot; target=\&quot;i88CsCOI2Hp2mbCcAl_R-20\&quot;&gt;&lt;mxGeometry relative=\&quot;1\&quot; as=\&quot;geometry\&quot;/&gt;&lt;/mxCell&gt;&lt;mxCell id=\&quot;i88CsCOI2Hp2mbCcAl_R-19\&quot; parent=\&quot;1\&quot; style=\&quot;rounded=0;whiteSpace=wrap;html=1;\&quot; value=\&quot;Update request status to withdraw\&quot; vertex=\&quot;1\&quot;&gt;&lt;mxGeometry height=\&quot;60\&quot; width=\&quot;120\&quot; x=\&quot;311\&quot; y=\&quot;270\&quot; as=\&quot;geometry\&quot;/&gt;&lt;/mxCell&gt;&lt;mxCell id=\&quot;i88CsCOI2Hp2mbCcAl_R-22\&quot; edge=\&quot;1\&quot; parent=\&quot;1\&quot; source=\&quot;i88CsCOI2Hp2mbCcAl_R-20\&quot; style=\&quot;edgeStyle=orthogonalEdgeStyle;rounded=0;orthogonalLoop=1;jettySize=auto;html=1;\&quot; target=\&quot;i88CsCOI2Hp2mbCcAl_R-21\&quot;&gt;&lt;mxGeometry relative=\&quot;1\&quot; as=\&quot;geometry\&quot;/&gt;&lt;/mxCell&gt;&lt;mxCell id=\&quot;i88CsCOI2Hp2mbCcAl_R-20\&quot; parent=\&quot;1\&quot; style=\&quot;rounded=0;whiteSpace=wrap;html=1;\&quot; value=\&quot;Notify the manager via email\&quot; vertex=\&quot;1\&quot;&gt;&lt;mxGeometry height=\&quot;60\&quot; width=\&quot;120\&quot; x=\&quot;311\&quot; y=\&quot;373\&quot; as=\&quot;geometry\&quot;/&gt;&lt;/mxCell&gt;&lt;mxCell id=\&quot;i88CsCOI2Hp2mbCcAl_R-21\&quot; parent=\&quot;1\&quot; style=\&quot;ellipse;whiteSpace=wrap;html=1;shapeInside=1;\&quot; value=\&quot;End\&quot; vertex=\&quot;1\&quot;&gt;&lt;mxGeometry height=\&quot;66\&quot; width=\&quot;114\&quot; x=\&quot;314\&quot; y=\&quot;510\&quot; as=\&quot;geometry\&quot;/&gt;&lt;/mxCell&gt;&lt;mxCell id=\&quot;i88CsCOI2Hp2mbCcAl_R-23\&quot; edge=\&quot;1\&quot; parent=\&quot;1\&quot; source=\&quot;i88CsCOI2Hp2mbCcAl_R-13\&quot; style=\&quot;edgeStyle=orthogonalEdgeStyle;rounded=0;orthogonalLoop=1;jettySize=auto;html=1;exitX=1;exitY=0.5;exitDx=0;exitDy=0;entryX=0.021;entryY=0.63;entryDx=0;entryDy=0;entryPerimeter=0;\&quot; target=\&quot;i88CsCOI2Hp2mbCcAl_R-21\&quot; value=\&quot;No\&quot;&gt;&lt;mxGeometry relative=\&quot;1\&quot; as=\&quot;geometry\&quot;/&gt;&lt;/mxCell&gt;&lt;/root&gt;&lt;/mxGraphModel&gt;&lt;/diagram&gt;&lt;/mxfile&gt;&quot;,&quot;toolbar&quot;:&quot;pages zoom layers lightbox&quot;,&quot;page&quot;:0}"></div>
 <script type="text/javascript" src="https://app.diagrams.net/js/viewer-static.min.js"></script>
 </body>
 </html>
